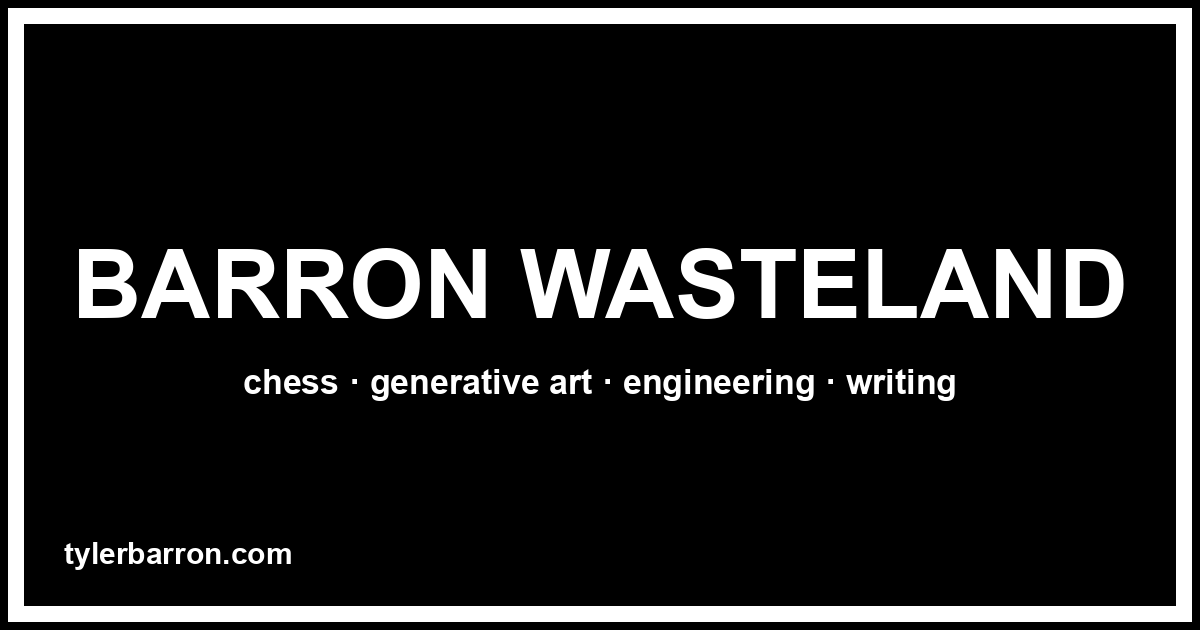
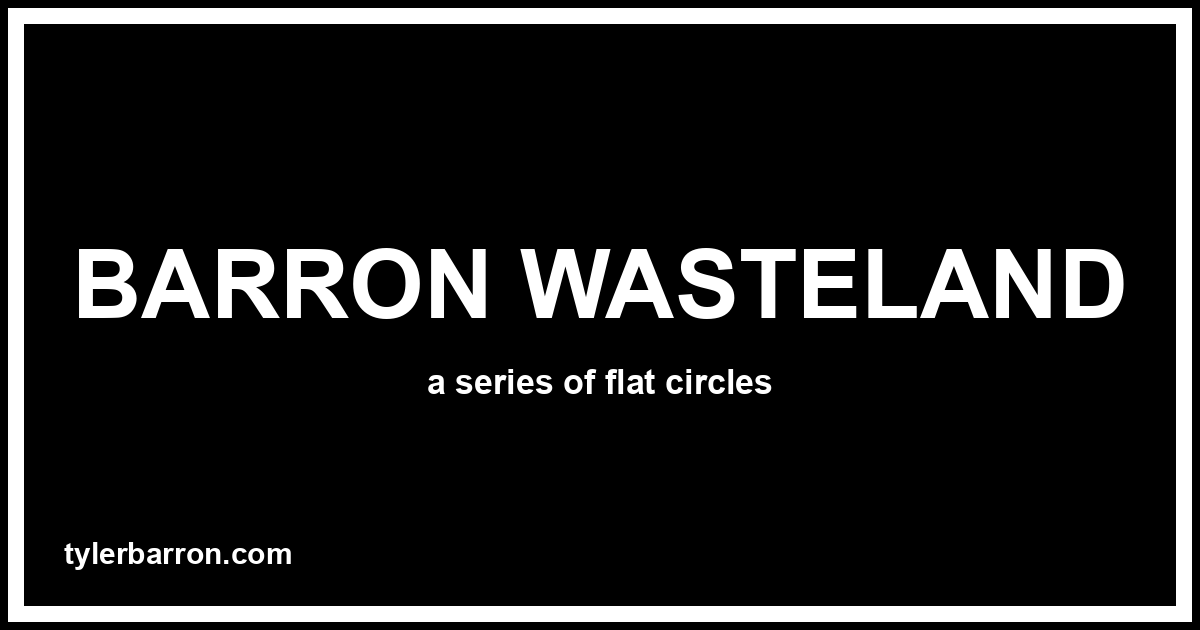
fix: 404s, date formatting, etc

Changed region(s): [[0.3083, 0.573, 0.6783, 0.6333], [0.7092, 0.573, 0.8017, 0.6333], [0.185, 0.573, 0.2775, 0.6333]]

diff --git a/app/utils/analytics.ts b/app/utils/analytics.ts
@@ -1,0 +1,11 @@
+/** Fire a GA4 custom event when a route 404s, so broken links are queryable
+ * directly — the page title alone is the same ("404 — Barron Wasteland") for
+ * every miss, which makes the default pages report useless for finding them. */
+export function trackNotFound(path: string): void {
+  const { gtag } = window;
+  if (typeof gtag !== "function") return;
+  gtag("event", "page_not_found", {
+    path,
+    referrer: document.referrer || "(none)",
+  });
+}

diff --git a/app/routes/$.tsx b/app/routes/$.tsx
@@ -1,7 +1,9 @@
-import { Link, data } from "react-router";
+import { useEffect } from "react";
+import { Link, data, useLocation } from "react-router";
 import { Navbar } from "~/components/Navbar";
 import Footer from "~/components/Footer";
 import { buildMeta } from "~/utils/seo";
+import { trackNotFound } from "~/utils/analytics";
 
 // Render the 404 page with a 404 status. Matching the URL (instead of letting
 // it fall through to the root ErrorBoundary) keeps the root loader running, so
@@ -15,6 +17,12 @@ export function meta() {
 }
 
 export default function NotFound() {
+  const location = useLocation();
+
+  useEffect(() => {
+    trackNotFound(location.pathname + location.search);
+  }, [location]);
+
   return (
     <div className="min-h-screen flex flex-col">
       <Navbar />

diff --git a/app/root.tsx b/app/root.tsx
@@ -15,6 +15,7 @@ import {
 import { useEffect } from "react";
 import styles from './styles/index.css?url';
 import { buildMeta } from './utils/seo';
+import { trackNotFound } from './utils/analytics';
 import faviconUrl from './favicon.png';
 import DichroicBackground from './components/DichroicBackground';
 
@@ -85,6 +86,11 @@ export function ErrorBoundary() {
   const is404 = isRouteErrorResponse(error) && error.status === 404;
   const isServerError = isRouteErrorResponse(error) && error.status >= 500;
   const status = isRouteErrorResponse(error) ? error.status : 500;
+
+  useEffect(() => {
+    if (!gaTrackingId || !is404) return;
+    trackNotFound(window.location.pathname + window.location.search);
+  }, [gaTrackingId, is404]);
 
   const title = is404 ? "404" : String(status);
   const heading = is404 ? "Page Not Found" : "Something Went Wrong";

diff --git a/app/routes/_index.tsx b/app/routes/_index.tsx
@@ -159,6 +159,7 @@ function formatPostDate(iso: string) {
     year: 'numeric',
     month: 'short',
     day: 'numeric',
+    timeZone: 'UTC',
   }).toUpperCase();
 }
 
@@ -234,7 +235,7 @@ export default function Index() {
             BARRON WASTELAND
           </h1>
           <p className="text-black text-xl xl:text-2xl font-neo font-semibold mt-4 tracking-wide opacity-80 uppercase">
-            FOOD FOR THOUGHT // IDEAS FOR EATING
+            A SERIES OF FLAT CIRCLES
           </p>
         </div>
       </section>

diff --git a/app/routes/blog.$slug.tsx b/app/routes/blog.$slug.tsx
@@ -68,7 +68,8 @@ export default function BlogPost() {
               {new Date(frontmatter.date).toLocaleDateString('en-US', {
                 year: 'numeric',
                 month: 'long',
-                day: 'numeric'
+                day: 'numeric',
+                timeZone: 'UTC'
               }).toUpperCase()}
             </div>
             <div className="border-t-4 border-black  w-full"></div>

diff --git a/app/components/Navbar.tsx b/app/components/Navbar.tsx
@@ -13,7 +13,7 @@ export function Navbar() {
               BARRON WASTELAND
             </div>
             <div className="text-lg text-black  group-hover:text-white font-semibold tracking-wide">
-              FOOD FOR THOUGHT // IDEAS FOR EATING
+              A SERIES OF FLAT CIRCLES
             </div>
           </div>
         </div>

diff --git a/scripts/generate-og-image.py b/scripts/generate-og-image.py
@@ -17,7 +17,7 @@ BLACK = (0, 0, 0)
 WHITE = (255, 255, 255)
 
 TITLE = "BARRON WASTELAND"
-TAGLINE = "chess · generative art · engineering · writing"
+TAGLINE = "a series of flat circles"
 URL = "tylerbarron.com"
 
 # Bold sans to match the extrabold uppercase nav wordmark. Fall back across a